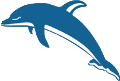
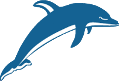
Added rotation and ship stats

diff --git a/index.html b/index.html
@@ -7,14 +7,40 @@
     </head>
     <body>
         <h1 class="page-title">TweetX</h1>
+
         <img src="images/spaceship.png" style="visibility: hidden;">
         <img src="images/dolphin.png" style="visibility: hidden;">
+
         <canvas class="canvas  js-canvas">
             Your browser does not support canvas.
         </canvas>
+
+        <div class="stats  js-stats">
+            <div class="stats__item">
+                <h2>Power</h2>
+                <input type="range" min="0" max="3" value="1" class="stats__power  js-stats-power">
+            </div>
+
+            <div class="stats__item">
+                <h2>Engines<h2>
+                <input type="range" min="0" max="3" value="1" class="stats__engines  js-stats-engines">
+            </div>
+
+            <div class="stats__item">
+                <h2>Shield<h2>
+                <input type="range" min="0" max="3" value="1" class="stats__shield  js-stats-shield">
+            </div>
+
+            <div class="stats__item">
+                <h2>Weapon<h2>
+                <input type="range" min="0" max="3" value="1" class="stats__weapon  js-stats-weapon">
+            </div>
+        </div>
+
         <script src="js/entity.js" type="text/javascript"></script>
         <script src="js/perlin.js" type="text/javascript"></script>
         <script src="js/stars.js" type="text/javascript"></script>
+        <script src="js/stats.js" type="text/javascript"></script>
         <script src="js/game.js" type="text/javascript"></script>
         <script src="js/main.js" type="text/javascript"></script>
     </body>

diff --git a/js/main.js b/js/main.js
@@ -18,10 +18,6 @@ const ws = new WebSocket('ws://localhost:17922');
 ws.onmessage = (e) => {
   const data = JSON.parse(e.data);
   if (data.hasOwnProperty('added') && data.added) {
-    // Set the player entity
-    if (data.type === 'Spaceship') {
-      game.player = data.entity;
-    }
     // Add the new entity
     game.addEntity(data);
   }
@@ -29,6 +25,10 @@ ws.onmessage = (e) => {
     // Set the entity's postition
     game.updateEntity(data);
   }
+  // Update the ship stats
+  [ 'power', 'engines', 'shield', 'weapon' ].forEach((stat) => {
+    updateRange(stat, data[stat]);
+  });
 };
 
 function norm(x, y) {
@@ -42,5 +42,10 @@ function norm(x, y) {
 function loop() {
   game.update();
   game.draw();
+  [ 'power', 'engines', 'shield', 'weapon' ].forEach((stat) => {
+    if (Math.random() > 0.9) {
+      updateRange(stat, Math.floor(Math.random() * 4));
+    }
+  });
   requestAnimationFrame(loop);
 }

diff --git a/css/global.css b/css/global.css
@@ -4,6 +4,7 @@
 }
 
 html {
+    color: white;
     font-family: sans-serif;
 }
 
@@ -19,4 +20,38 @@ html {
     bottom: 0;
     left: 0;
     z-index: -1;
+}
+
+.stats {
+    position: fixed;
+    bottom: 0;
+    left: 0;
+}
+
+.stats__item {
+    display: inline-block;
+    margin: 0 1em;
+}
+
+input[type="range"] {
+    -moz-appearance: none;
+    -webkit-appearance: none;
+    appearance: none;
+    background-color: white;
+    background-image: -moz-linear-gradient(90deg, red 33%, white 33%);
+    background-image: -webkit-linear-gradient(90deg, red 33%, white 33%);
+    background-image: linear-gradient(90deg, red 33%, white 33%);
+    height: 20px;
+    pointer-events: none;
+    width: 200px;
+}
+
+input[type="range"]::-webkit-slider-thumb {
+    display: none;
+}
+input[type="range"]::-moz-range-thumb {
+    display: none;
+}
+input[type="range"]::-ms-thumb {
+    display: none;
 }

diff --git a/js/game.js b/js/game.js
@@ -18,6 +18,9 @@ class Game {
   }
 
   addEntity(entity) {
+    if (entity.type === 'Spaceship') {
+      this.player = entity;
+    }
     this.entities[entity.entity] = entity;
   }
 
@@ -31,11 +34,14 @@ class Game {
   }
 
   updateEntity(entity) {
-    // Set the entity's new position
-    this.entities[entity.entity].pos = entity.pos;
     // Follow the player
     if (entity.entity === this.player) {
       this.stars.offset(entity.pos[0], entity.pos[1]);
+      this.entities[entity.entity].pos = entity.pos;
+    } else {
+      // Set the entity's new position
+      this.entities[entity.entity].pos[0] = entity.pos[0] - this.player.pos[0];
+      this.entities[entity.entity].pos[1] = entity.pos[1] - this.player.pos[1];
     }
   }
 

diff --git a/js/stats.js b/js/stats.js
@@ -1,0 +1,13 @@
+function updateRange(type, value) {
+  const range = document.querySelector('.js-stats-' + type);
+  if (range && value >= range.min && value <= range.max) {
+    range.value = value;
+    rangeGradient(range, 'red', 'white');
+  }
+}
+
+function rangeGradient(range, fg, bg) {
+  const percent = (range.value / (range.max - range.min)) * 100;
+  range.setAttribute('style',
+      `background-image: linear-gradient(90deg, ${fg} ${percent}%, ${bg} ${percent}%)`);
+}

diff --git a/js/entity.js b/js/entity.js
@@ -1,5 +1,11 @@
 class Entity {
   static draw(render, entity) {
+    render.save();
+    // Rotate the sprite
+    if (entity.hasOwnProperty('direction')) {
+      render.rotate(entity.direction);
+    }
+    // Draw the sprite
     if (entity.type === 'Spaceship') {
       // Centre the player
       const pos = norm(0, 0);
@@ -16,5 +22,6 @@ class Entity {
         render.fillRect(pos.x, pos.y, 100, 80);
       }
     }
+    render.restore();
   }
 }

diff --git a/js/stars.js b/js/stars.js
@@ -22,7 +22,7 @@ class Stars {
             x: x,
             y: y,
             // Stars have a random size
-            size: Math.abs(noise.perlin2(5, 5)) * 4
+            size: 1.4,
           });
         }
       }
